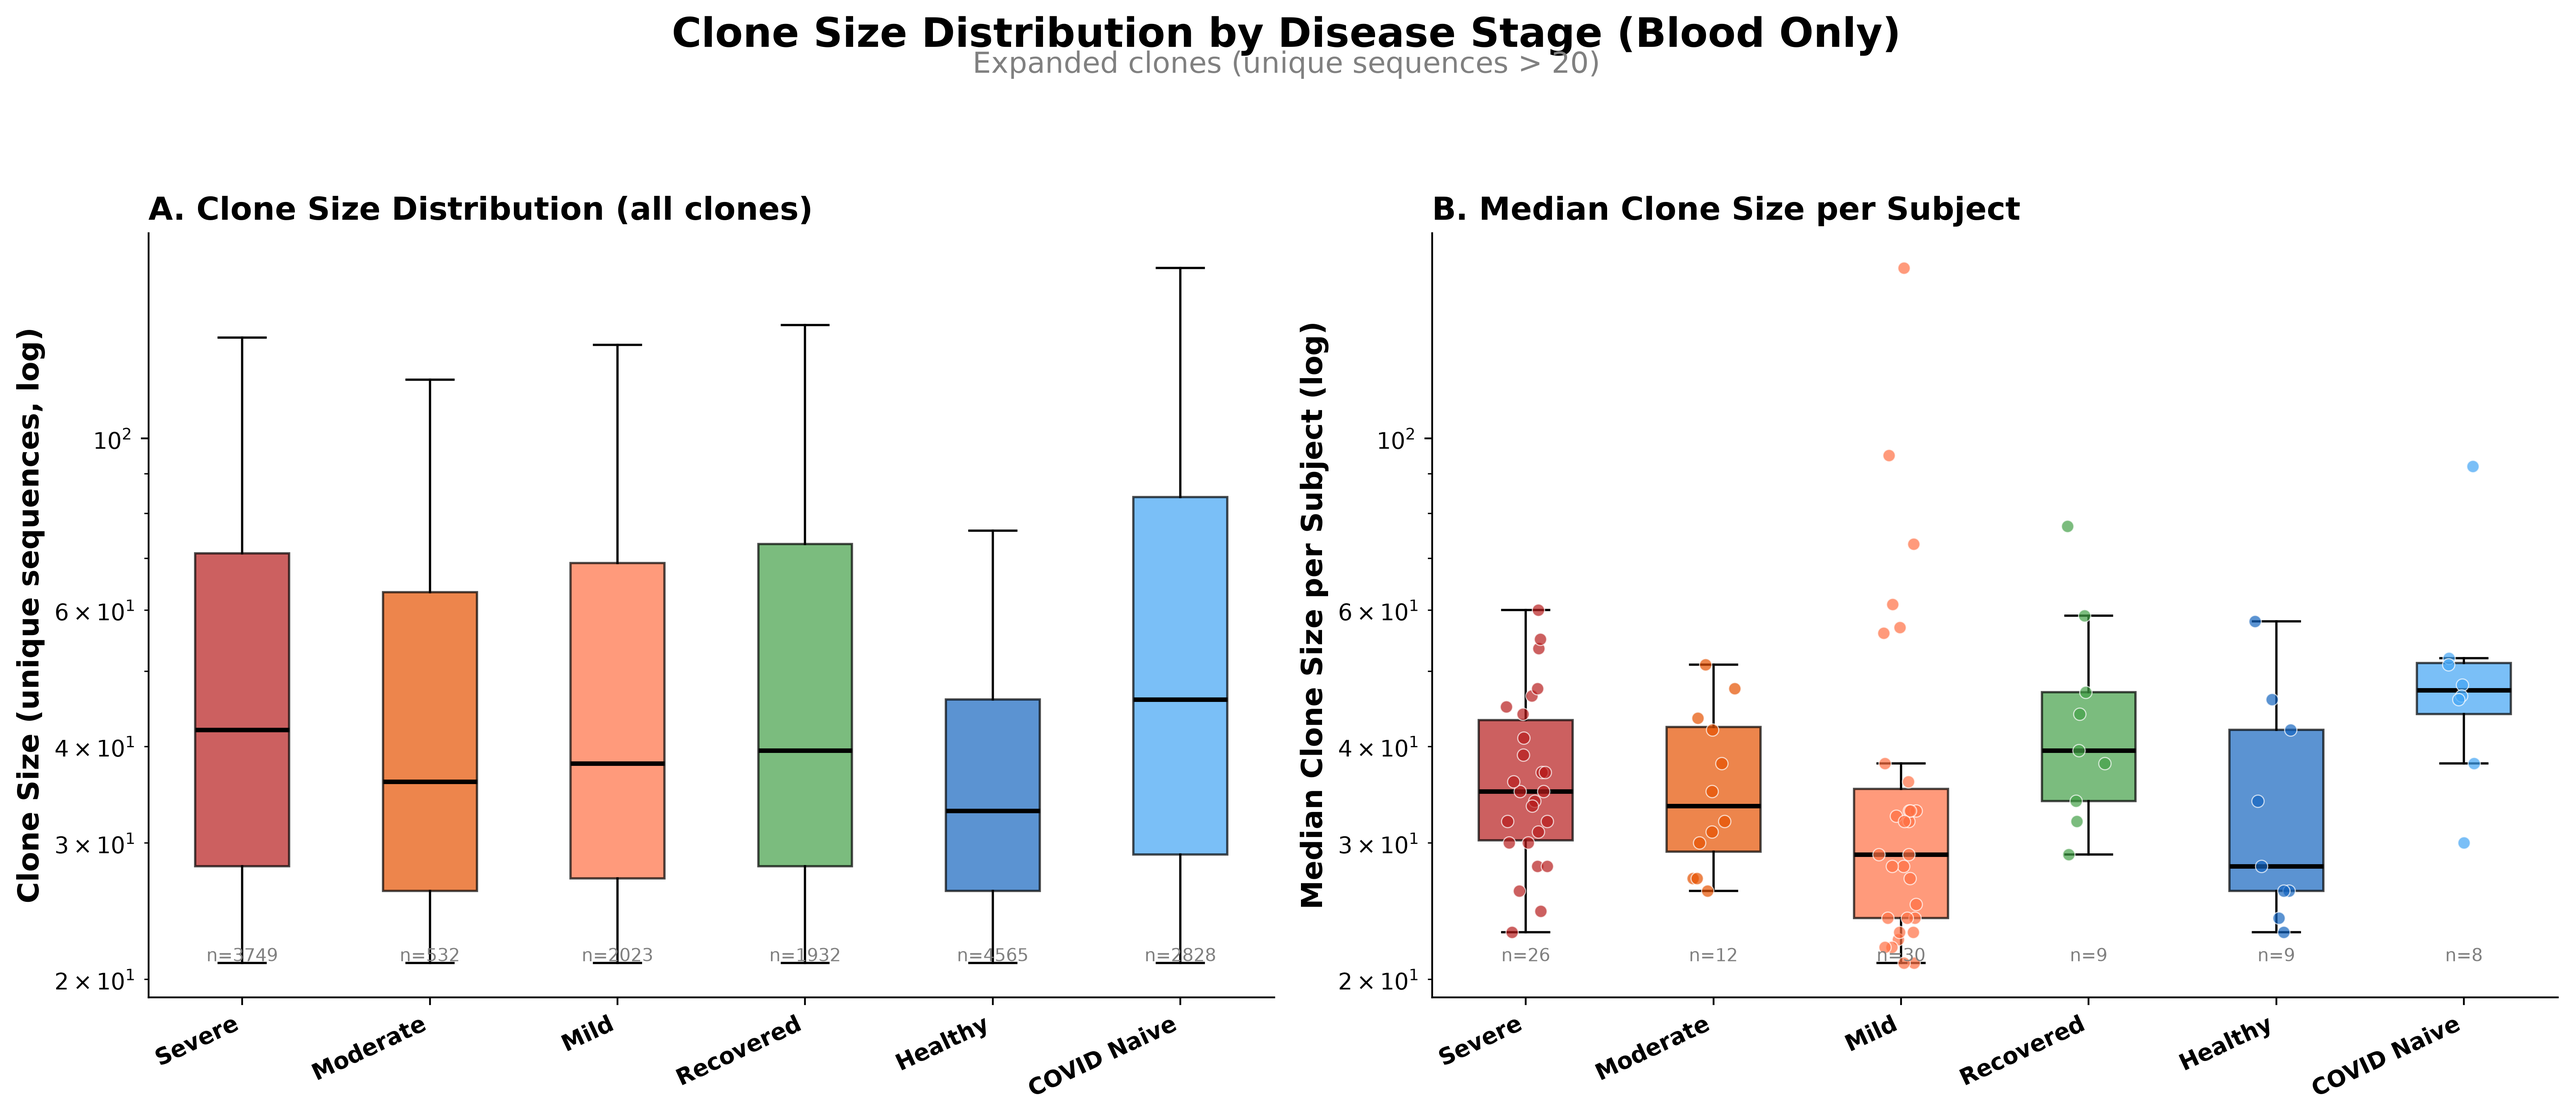
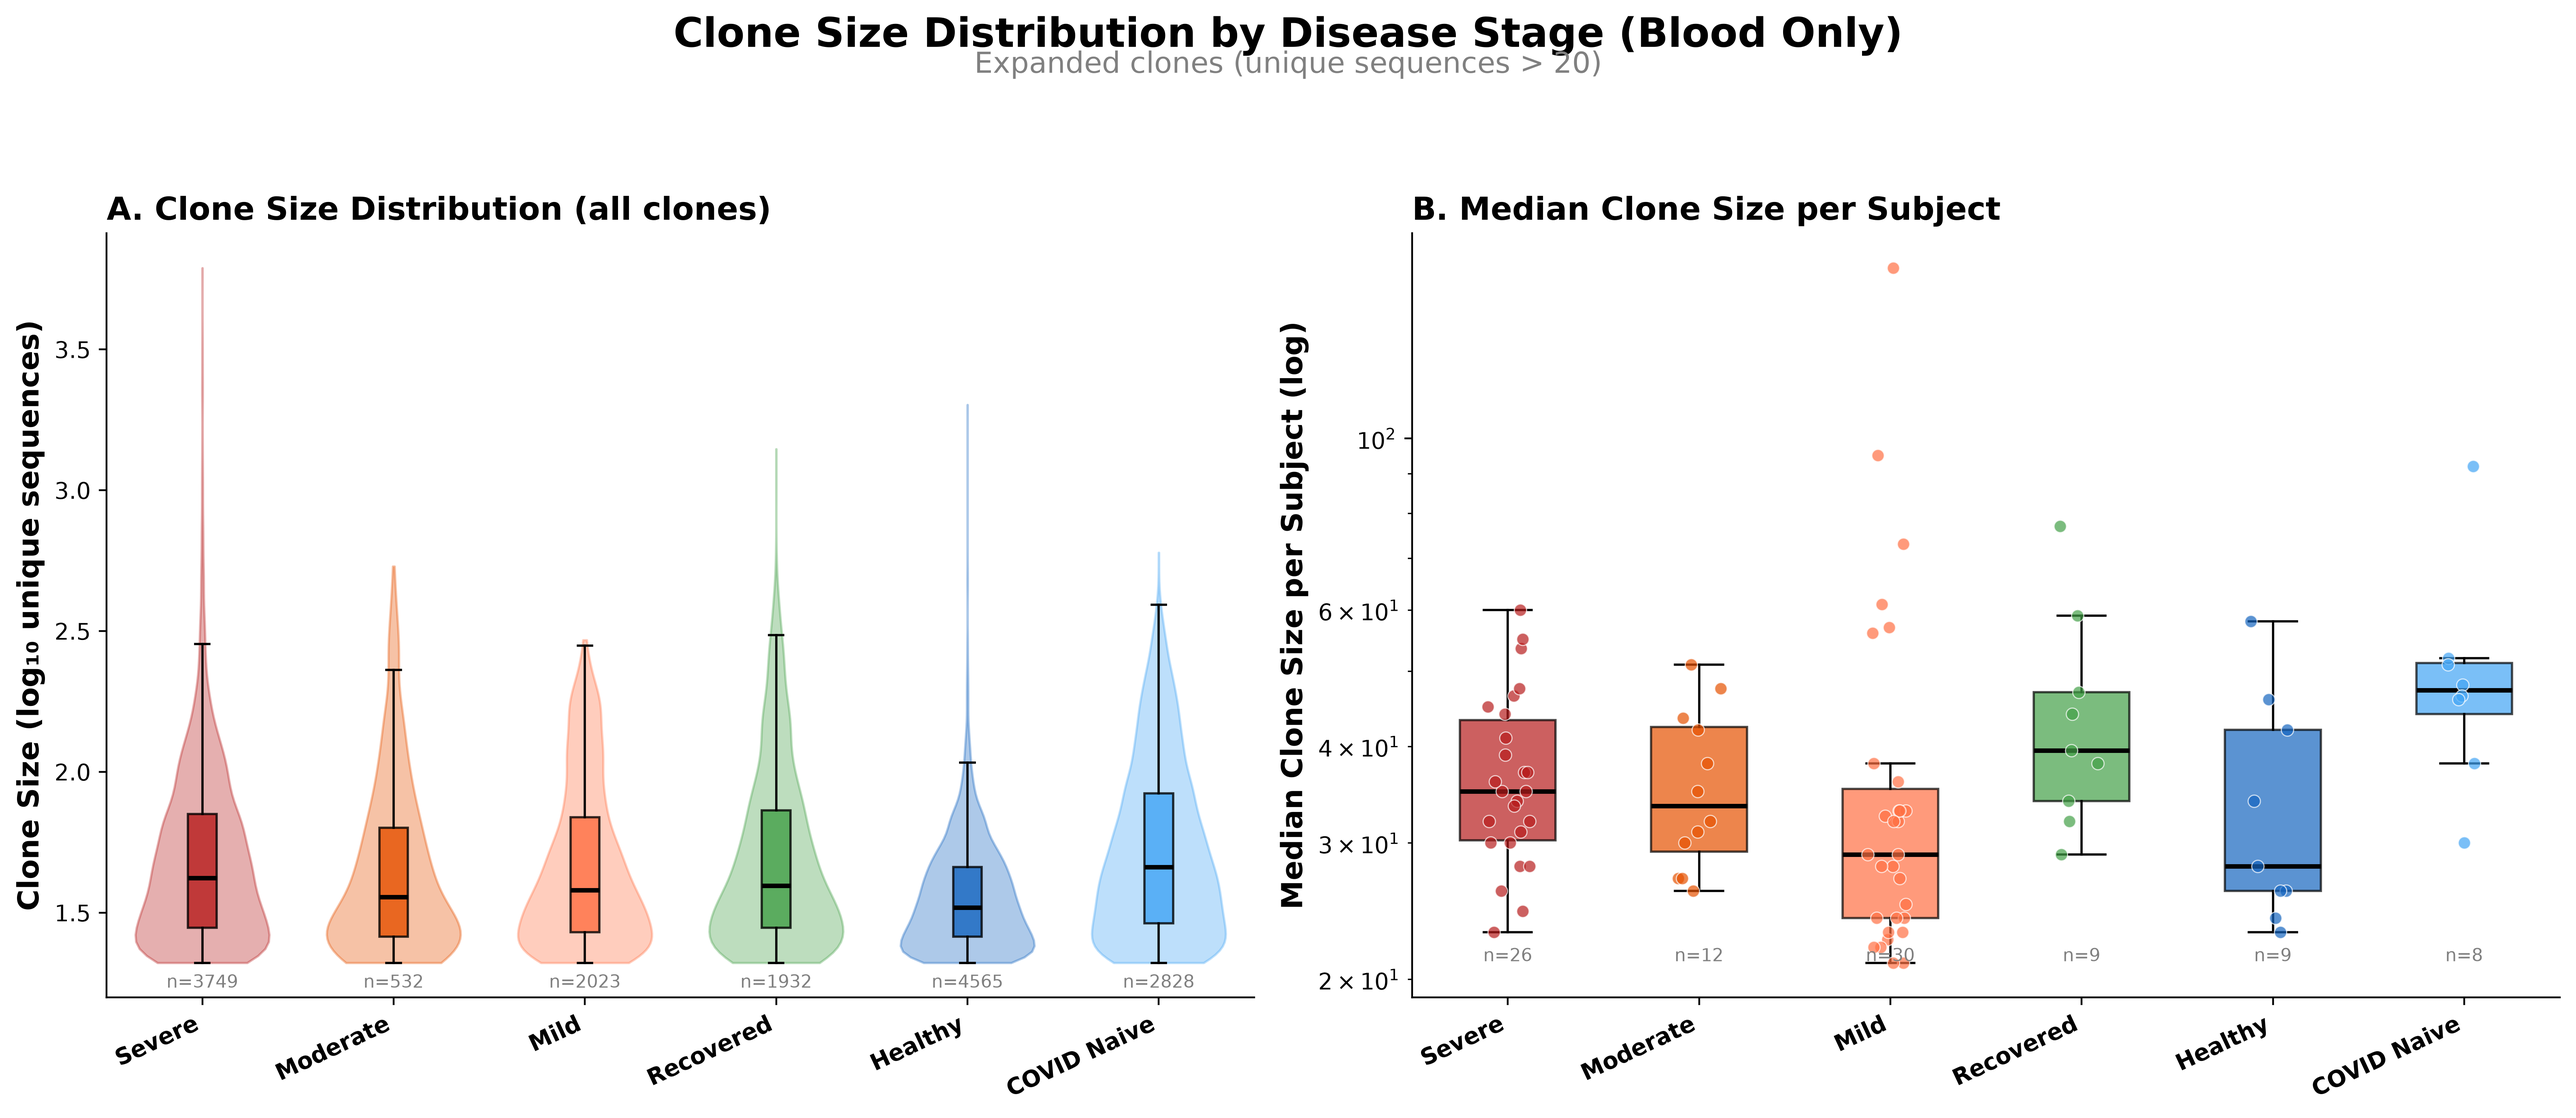
Use violin + boxplot for clone size distribution (Panel A)
Shows distribution shape more clearly than boxplot alone.

diff --git a/immunedb_STATS_API/clonal_analysis/clone_size_distribution_fig.py b/immunedb_STATS_API/clonal_analysis/clone_size_distribution_fig.py
@@ -88,29 +88,35 @@ fig.suptitle("Clone Size Distribution by Disease Stage (Blood Only)",
 fig.text(0.5, 0.93, "Expanded clones (unique sequences > 20)",
          ha="center", fontsize=13, color="gray")
 
-# Panel A: All clone sizes pooled per disease
+# Panel A: All clone sizes pooled per disease (violin + boxplot)
 ax = axes[0]
-bp_data = [disease_sizes[d] for d in disease_order]
+bp_data = [np.log10(np.array(disease_sizes[d])) for d in disease_order]
 colors = [disease_colors[d] for d in disease_order]
 rng = np.random.default_rng(42)
 
-bp = ax.boxplot(bp_data, positions=range(len(disease_order)), widths=0.5, patch_artist=True,
+vp = ax.violinplot(bp_data, positions=range(len(disease_order)), showmeans=False,
+                   showmedians=False, showextrema=False, widths=0.7)
+for i, body in enumerate(vp["bodies"]):
+    body.set_facecolor(colors[i])
+    body.set_alpha(0.35)
+    body.set_edgecolor(colors[i])
+
+bp = ax.boxplot(bp_data, positions=range(len(disease_order)), widths=0.15, patch_artist=True,
                 showfliers=False, medianprops=dict(color="black", linewidth=2))
 for i, patch in enumerate(bp["boxes"]):
     patch.set_facecolor(colors[i])
-    patch.set_alpha(0.7)
+    patch.set_alpha(0.8)
 
-ax.set_yscale("log")
 ax.set_xticks(range(len(disease_order)))
 ax.set_xticklabels(disease_order, fontsize=10, fontweight="bold", rotation=25, ha="right")
-ax.set_ylabel("Clone Size (unique sequences, log)", fontsize=13, fontweight="bold")
+ax.set_ylabel("Clone Size (log₁₀ unique sequences)", fontsize=13, fontweight="bold")
 ax.set_title("A. Clone Size Distribution (all clones)", fontsize=14, fontweight="bold", loc="left")
 ax.spines["top"].set_visible(False)
 ax.spines["right"].set_visible(False)
 
 # Add n= labels
 for i, d in enumerate(disease_order):
-    ax.text(i, ax.get_ylim()[0] * 1.1, f"n={len(disease_sizes[d])}",
+    ax.text(i, ax.get_ylim()[0] + 0.02, f"n={len(disease_sizes[d])}",
             ha="center", va="bottom", fontsize=8, color="gray")
 
 # Panel B: Median clone size per subject
